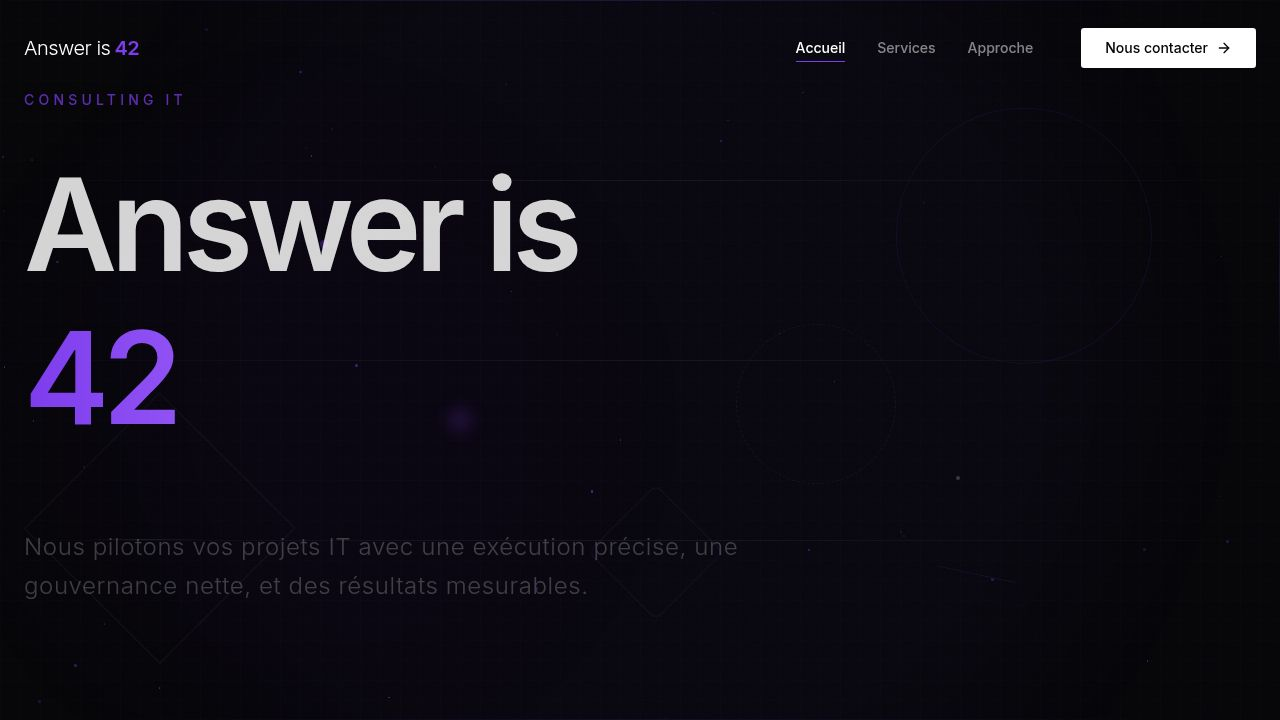
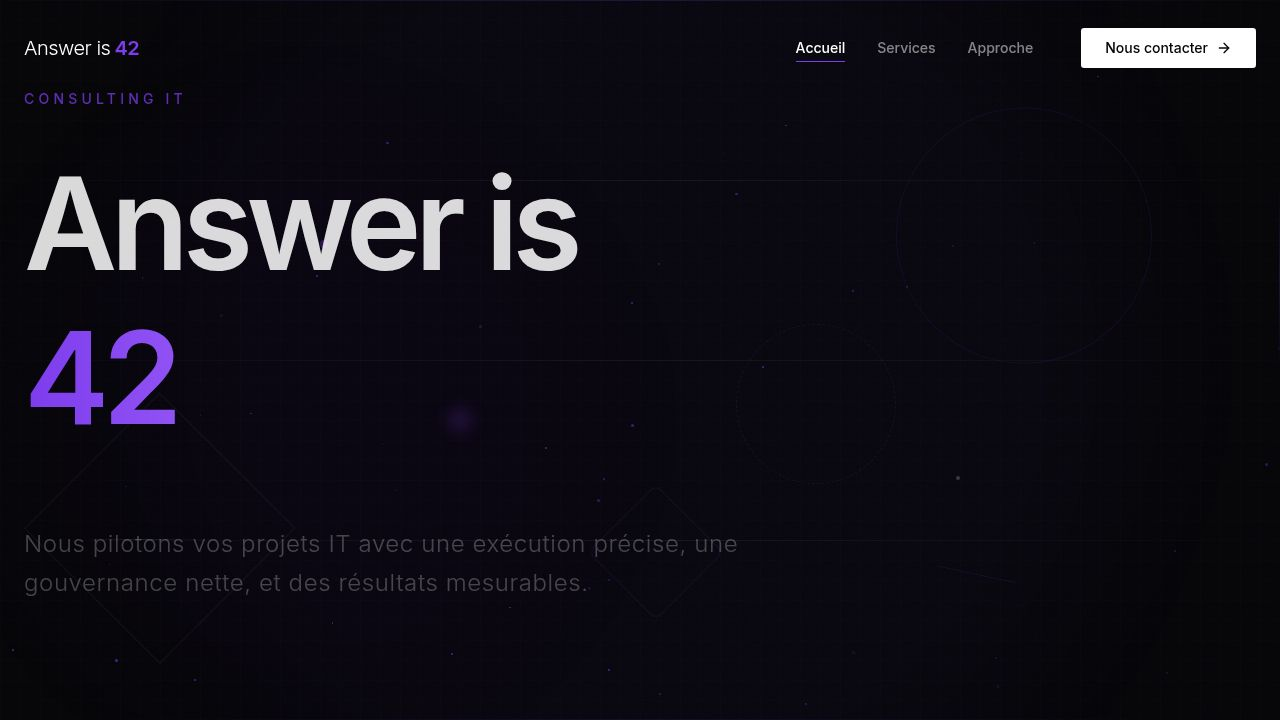
Improve accessibility and visual clarity across multiple pages
Updates various components and pages to enhance accessibility by adjusting text opacity for better color contrast and adding the `main-content` ID for skip links. The 404 page is also redesigned with improved styling and navigation.

Replit-Commit-Author: Agent
Replit-Commit-Session-Id: 29940ffb-187c-4d9d-82cb-4cb9fd9725ea
Replit-Commit-Checkpoint-Type: intermediate_checkpoint
Replit-Commit-Event-Id: 058803fc-a95f-47a4-b12f-d4ed353ae3f0
Replit-Commit-Screenshot-Url: https://storage.googleapis.com/screenshot-production-us-central1/3246b57a-cdec-4a86-b292-b0f04e149094/29940ffb-187c-4d9d-82cb-4cb9fd9725ea/o7NvaER
Replit-Helium-Checkpoint-Created: true

diff --git a/client/src/components/ui/CookieBanner.tsx b/client/src/components/ui/CookieBanner.tsx
@@ -86,11 +86,11 @@ export function CookieBanner() {
                     
                     <button
                       onClick={() => setIsVisible(false)}
-                      className="text-white/40 hover:text-white transition-colors p-1"
+                      className="text-white/60 hover:text-white transition-colors p-1"
                       aria-label="Fermer temporairement"
                       data-testid="button-cookie-close"
                     >
-                      <X className="w-5 h-5" />
+                      <X className="w-5 h-5" aria-hidden="true" />
                     </button>
                   </div>
 
@@ -116,7 +116,7 @@ export function CookieBanner() {
                           <label className="flex items-center justify-between p-4 bg-white/[0.02] border border-white/5 rounded-sm cursor-not-allowed">
                             <div>
                               <p className="text-white text-sm font-medium">Cookies nécessaires</p>
-                              <p className="text-white/40 text-xs mt-1">Indispensables au fonctionnement du site</p>
+                              <p className="text-white/60 text-xs mt-1">Indispensables au fonctionnement du site</p>
                             </div>
                             <div className="w-10 h-6 bg-primary/30 rounded-full flex items-center justify-end px-1">
                               <div className="w-4 h-4 bg-primary rounded-full" />
@@ -126,7 +126,7 @@ export function CookieBanner() {
                           <label className="flex items-center justify-between p-4 bg-white/[0.02] border border-white/5 rounded-sm cursor-pointer hover:border-white/10 transition-colors">
                             <div>
                               <p className="text-white text-sm font-medium">Cookies analytiques</p>
-                              <p className="text-white/40 text-xs mt-1">Nous aident à comprendre l'utilisation du site</p>
+                              <p className="text-white/60 text-xs mt-1">Nous aident à comprendre l'utilisation du site</p>
                             </div>
                             <button
                               onClick={() => setPreferences(p => ({ ...p, analytics: !p.analytics }))}
@@ -144,7 +144,7 @@ export function CookieBanner() {
                           <label className="flex items-center justify-between p-4 bg-white/[0.02] border border-white/5 rounded-sm cursor-pointer hover:border-white/10 transition-colors">
                             <div>
                               <p className="text-white text-sm font-medium">Cookies fonctionnels</p>
-                              <p className="text-white/40 text-xs mt-1">Mémorisent vos préférences</p>
+                              <p className="text-white/60 text-xs mt-1">Mémorisent vos préférences</p>
                             </div>
                             <button
                               onClick={() => setPreferences(p => ({ ...p, functional: !p.functional }))}

diff --git a/client/src/pages/not-found.tsx b/client/src/pages/not-found.tsx
@@ -1,21 +1,35 @@
-import { Card, CardContent } from "@/components/ui/card";
-import { AlertCircle } from "lucide-react";
+import { Link } from "wouter";
+import { AlertCircle, ArrowLeft } from "lucide-react";
+import { Navbar } from "@/components/layout/Navbar";
+import { Footer } from "@/components/layout/Footer";
+import { GrainTexture } from "@/components/ui/GrainTexture";
 
 export default function NotFound() {
   return (
-    <div className="min-h-screen w-full flex items-center justify-center bg-gray-50">
-      <Card className="w-full max-w-md mx-4">
-        <CardContent className="pt-6">
-          <div className="flex mb-4 gap-2">
-            <AlertCircle className="h-8 w-8 text-red-500" />
-            <h1 className="text-2xl font-bold text-gray-900">404 Page Not Found</h1>
+    <div className="min-h-screen bg-background flex flex-col">
+      <GrainTexture />
+      <Navbar />
+      
+      <main id="main-content" className="flex-grow flex items-center justify-center px-6">
+        <div className="text-center max-w-md">
+          <div className="w-20 h-20 rounded-full bg-primary/10 flex items-center justify-center mx-auto mb-8">
+            <AlertCircle className="w-10 h-10 text-primary" aria-hidden="true" />
           </div>
-
-          <p className="mt-4 text-sm text-gray-600">
-            Did you forget to add the page to the router?
+          <h1 className="text-5xl font-semibold text-white mb-4">404</h1>
+          <p className="text-xl text-white/60 mb-8">
+            Cette page n'existe pas ou a été déplacée.
           </p>
-        </CardContent>
-      </Card>
+          <Link 
+            href="/"
+            className="inline-flex items-center gap-2 bg-primary hover:bg-primary/90 text-white px-6 py-3 rounded-sm font-medium transition-colors"
+          >
+            <ArrowLeft className="w-4 h-4" aria-hidden="true" />
+            Retour à l'accueil
+          </Link>
+        </div>
+      </main>
+      
+      <Footer />
     </div>
   );
 }

diff --git a/client/src/pages/services.tsx b/client/src/pages/services.tsx
@@ -189,7 +189,7 @@ function ServiceCard({ service, index }: { service: typeof SERVICES[0]; index: n
           </p>
 
           <div className="mb-8">
-            <p className="text-xs font-medium text-white/40 uppercase tracking-wider mb-4">Technologies</p>
+            <p className="text-xs font-medium text-white/60 uppercase tracking-wider mb-4">Technologies</p>
             <div className="flex flex-wrap gap-2">
               {service.technologies.map((tech, i) => (
                 <span 
@@ -203,7 +203,7 @@ function ServiceCard({ service, index }: { service: typeof SERVICES[0]; index: n
           </div>
 
           <div>
-            <p className="text-xs font-medium text-white/40 uppercase tracking-wider mb-4">Expertises</p>
+            <p className="text-xs font-medium text-white/60 uppercase tracking-wider mb-4">Expertises</p>
             <ul className="space-y-3">
               {service.capabilities.map((cap, i) => (
                 <li key={i} className="flex items-start gap-3 text-sm text-white/50">

diff --git a/client/src/pages/contact.tsx b/client/src/pages/contact.tsx
@@ -159,7 +159,7 @@ export default function Contact() {
                   <StaggerItem key={i}>
                     <div className="flex items-start gap-6 group" data-testid={`contact-info-${item.label.toLowerCase()}`}>
                       <div className="w-14 h-14 rounded-sm bg-white/[0.03] border border-white/5 flex items-center justify-center group-hover:border-primary/30 group-hover:bg-primary/5 transition-all duration-300">
-                        <item.icon className="w-6 h-6 text-white/40 group-hover:text-primary transition-colors" aria-hidden="true" />
+                        <item.icon className="w-6 h-6 text-white/60 group-hover:text-primary transition-colors" aria-hidden="true" />
                       </div>
                       <div>
                         <p className="text-xs text-white/60 uppercase tracking-wider mb-2" data-testid={`text-info-label-${item.label.toLowerCase()}`}>{item.label}</p>

diff --git a/client/src/components/home/MethodologyTimeline.tsx b/client/src/components/home/MethodologyTimeline.tsx
@@ -58,7 +58,7 @@ function TimelineStep({ step, index, progress }: { step: typeof STEPS[0]; index:
           whileHover={{ scale: 1.1 }}
         >
           <Icon className={`w-7 h-7 transition-colors duration-500 ${
-            isActive ? "text-primary" : "text-white/40"
+            isActive ? "text-primary" : "text-white/60"
           }`} />
           
           <motion.div
@@ -99,7 +99,7 @@ function TimelineStep({ step, index, progress }: { step: typeof STEPS[0]; index:
         </p>
         
         <div className="inline-flex items-center gap-2 px-3 py-1.5 bg-white/5 border border-white/10 rounded-full">
-          <span className="text-xs text-white/40">Durée :</span>
+          <span className="text-xs text-white/60">Durée :</span>
           <span className="text-xs text-white/70" data-testid={`text-step-duration-${index}`}>{step.duration}</span>
         </div>
       </div>

diff --git a/client/src/components/home/About.tsx b/client/src/components/home/About.tsx
@@ -46,7 +46,7 @@ export function About() {
                   <blockquote className="text-2xl sm:text-3xl md:text-4xl text-white font-light italic leading-relaxed" data-testid="text-quote">
                     "La complexité est l'ennemi de l'exécution."
                   </blockquote>
-                  <p className="mt-6 text-white/40 text-base tracking-wider">— Notre philosophie</p>
+                  <p className="mt-6 text-white/60 text-base tracking-wider">— Notre philosophie</p>
                 </div>
               </StaggerItem>
             </StaggerContainer>

diff --git a/client/src/pages/approche.tsx b/client/src/pages/approche.tsx
@@ -168,7 +168,7 @@ function MethodologyCard({ step, index }: { step: typeof METHODOLOGY_STEPS[0]; i
           </div>
 
           <div>
-            <p className="text-xs font-medium text-white/40 uppercase tracking-wider mb-4">Livrables</p>
+            <p className="text-xs font-medium text-white/60 uppercase tracking-wider mb-4">Livrables</p>
             <div className="grid grid-cols-1 sm:grid-cols-2 gap-3">
               {step.deliverables.map((deliverable, i) => (
                 <div key={i} className="flex items-center gap-3 text-sm text-white/50">

diff --git a/client/src/pages/politique-confidentialite.tsx b/client/src/pages/politique-confidentialite.tsx
@@ -233,7 +233,7 @@ export default function PolitiqueConfidentialite() {
             </Reveal>
 
             <Reveal delay={1.4}>
-              <p className="text-sm text-white/40 pt-8 border-t border-white/10" data-testid="text-privacy-update">
+              <p className="text-sm text-white/60 pt-8 border-t border-white/10" data-testid="text-privacy-update">
                 Dernière mise à jour : {new Date().toLocaleDateString('fr-FR', { day: 'numeric', month: 'long', year: 'numeric' })}
               </p>
             </Reveal>

diff --git a/client/src/pages/politique-cookies.tsx b/client/src/pages/politique-cookies.tsx
@@ -245,7 +245,7 @@ export default function PolitiqueCookies() {
             </Reveal>
 
             <Reveal delay={1.1}>
-              <p className="text-sm text-white/40 pt-8 border-t border-white/10" data-testid="text-cookies-update">
+              <p className="text-sm text-white/60 pt-8 border-t border-white/10" data-testid="text-cookies-update">
                 Dernière mise à jour : {new Date().toLocaleDateString('fr-FR', { day: 'numeric', month: 'long', year: 'numeric' })}
               </p>
             </Reveal>

diff --git a/client/src/pages/mentions-legales.tsx b/client/src/pages/mentions-legales.tsx
@@ -166,7 +166,7 @@ export default function MentionsLegales() {
             </Reveal>
 
             <Reveal delay={1.0}>
-              <p className="text-sm text-white/40 pt-8 border-t border-white/10" data-testid="text-legal-update">
+              <p className="text-sm text-white/60 pt-8 border-t border-white/10" data-testid="text-legal-update">
                 Dernière mise à jour : {new Date().toLocaleDateString('fr-FR', { day: 'numeric', month: 'long', year: 'numeric' })}
               </p>
             </Reveal>

diff --git a/client/src/components/home/TrustIndicators.tsx b/client/src/components/home/TrustIndicators.tsx
@@ -27,7 +27,7 @@ export function TrustIndicators() {
                   </span>
                 </div>
                 <p className="text-white/80 font-medium mb-1" data-testid={`text-stat-label-${i}`}>{stat.label}</p>
-                <p className="text-white/40 text-sm" data-testid={`text-stat-sublabel-${i}`}>{stat.sublabel}</p>
+                <p className="text-white/60 text-sm" data-testid={`text-stat-sublabel-${i}`}>{stat.sublabel}</p>
               </div>
             </StaggerItem>
           ))}

diff --git a/client/src/pages/cgu.tsx b/client/src/pages/cgu.tsx
@@ -242,7 +242,7 @@ export default function CGU() {
             </Reveal>
 
             <Reveal delay={1.4}>
-              <p className="text-sm text-white/40 pt-8 border-t border-white/10" data-testid="text-cgu-update">
+              <p className="text-sm text-white/60 pt-8 border-t border-white/10" data-testid="text-cgu-update">
                 Dernière mise à jour : {new Date().toLocaleDateString('fr-FR', { day: 'numeric', month: 'long', year: 'numeric' })}
               </p>
             </Reveal>
